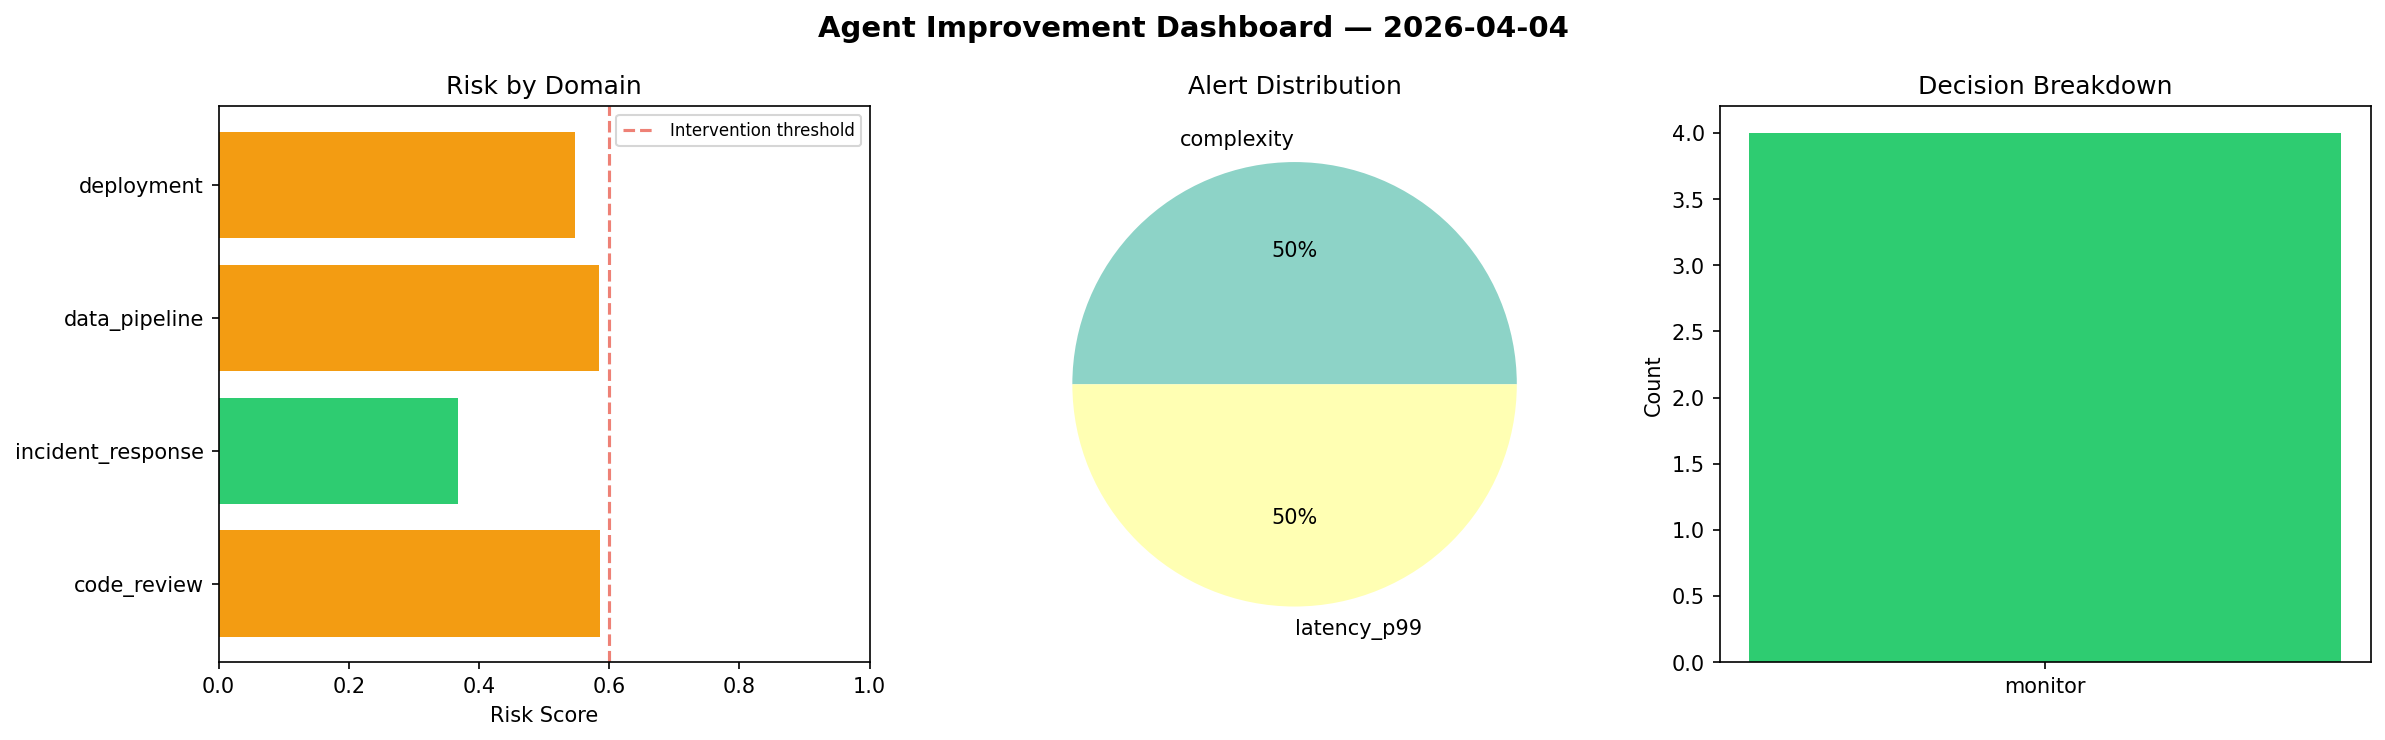
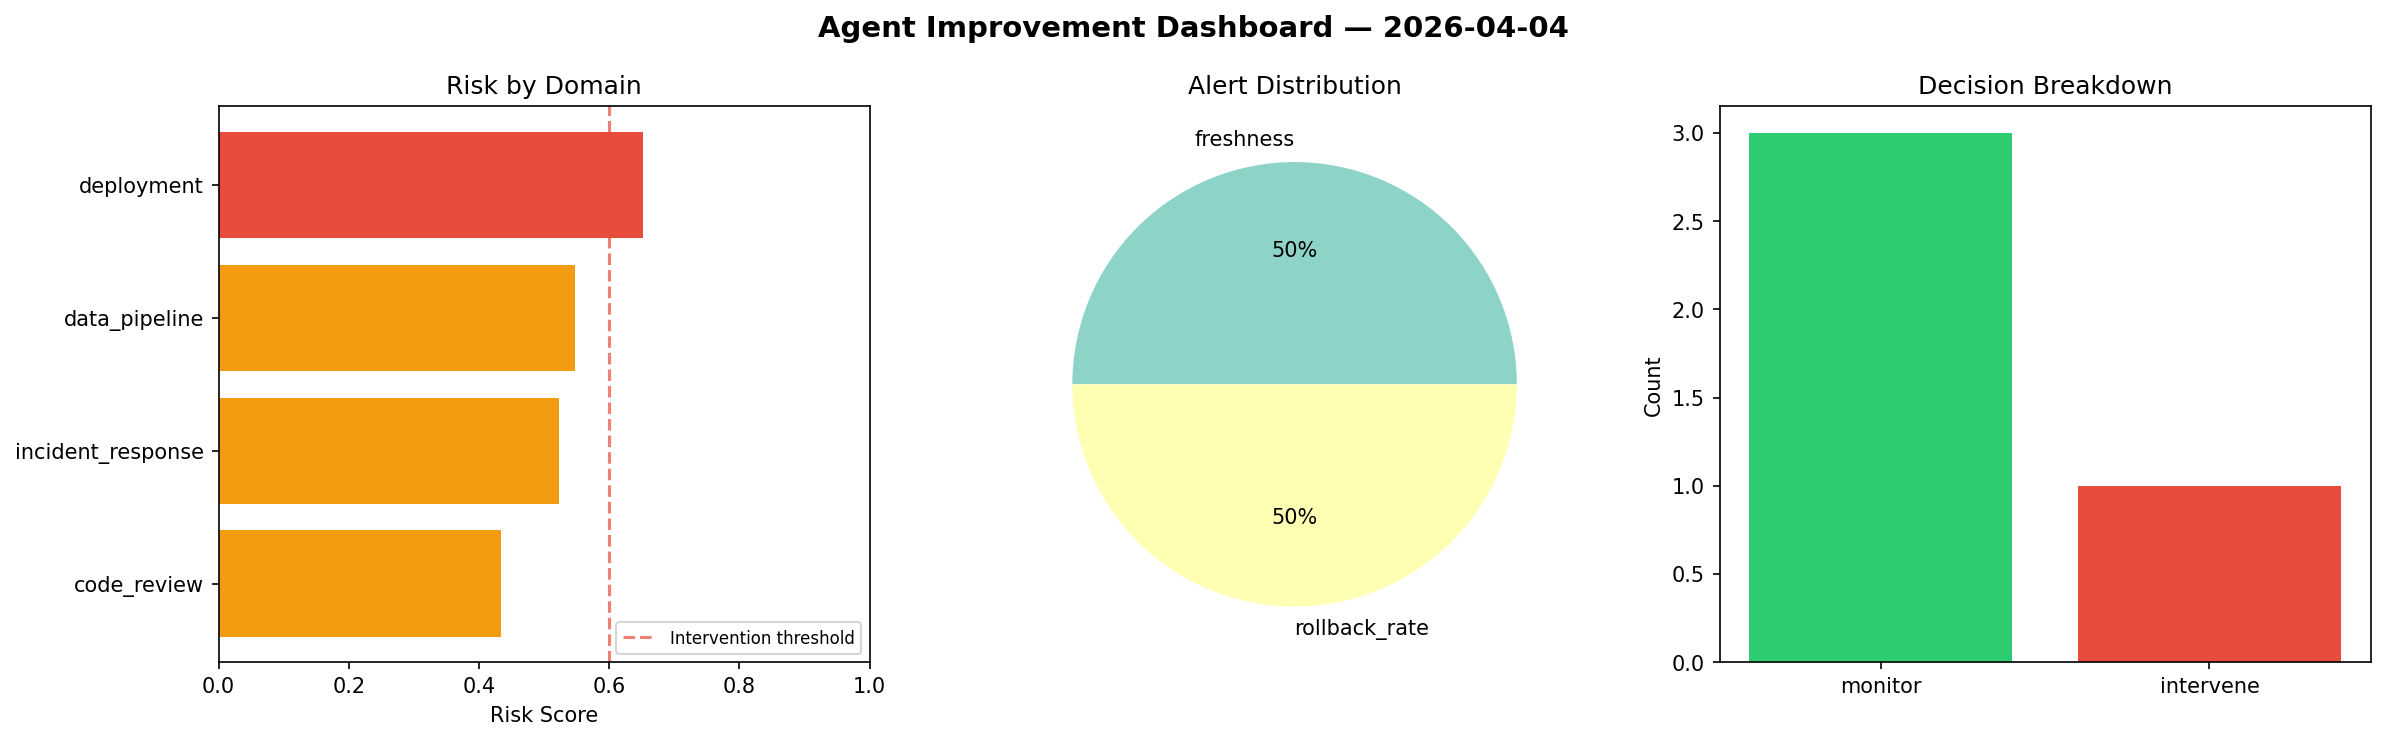
agent-improvement: daily cycle 2026-04-04T08:59

diff --git a/logs/2026-04-04.md b/logs/2026-04-04.md
@@ -1,6 +1,6 @@
 # Agent Improvement Report — 2026-04-04
 
-**Cycle ID:** `dd359a07` | **Avg Risk:** 0.5213 | **Interventions:** 0/4
+**Cycle ID:** `8e0b75b2` | **Avg Risk:** 0.5389 | **Interventions:** 1/4
 
 ![Dashboard](2026-04-04_dashboard.png)
 
@@ -10,18 +10,18 @@
 
 | Domain | Risk Score | Decision | Alerts |
 |--------|-----------|----------|--------|
-| code_review | 0.586 | monitor | complexity |
-| incident_response | 0.3675 | monitor | none |
-| data_pipeline | 0.5849 | monitor | none |
-| deployment | 0.5468 | monitor | latency_p99 |
+| code_review | 0.4344 | monitor | none |
+| incident_response | 0.5225 | monitor | none |
+| data_pipeline | 0.5468 | monitor | freshness |
+| deployment | 0.6521 | intervene | rollback_rate |
 
 ## Delta vs Yesterday
 
 | Domain | Today | Yesterday | Change |
 |--------|-------|-----------|--------|
-| code_review | 0.586 | 0.4834 | 📈 21.2% |
-| incident_response | 0.3675 | 0.4126 | 📉 -10.9% |
-| data_pipeline | 0.5849 | 0.6645 | 📉 -12.0% |
-| deployment | 0.5468 | 0.4245 | 📈 28.8% |
+| code_review | 0.4344 | 0.4834 | 📉 -10.1% |
+| incident_response | 0.5225 | 0.4126 | 📈 26.6% |
+| data_pipeline | 0.5468 | 0.6645 | 📉 -17.7% |
+| deployment | 0.6521 | 0.4245 | 📈 53.6% |
 
-**Refinement:** `{'adjustment': 'maintain', 'trend': 'improving', 'window': 4}`
+**Refinement:** `{'adjustment': 'tighten_thresholds', 'trend': 'degrading', 'window': 4}`
